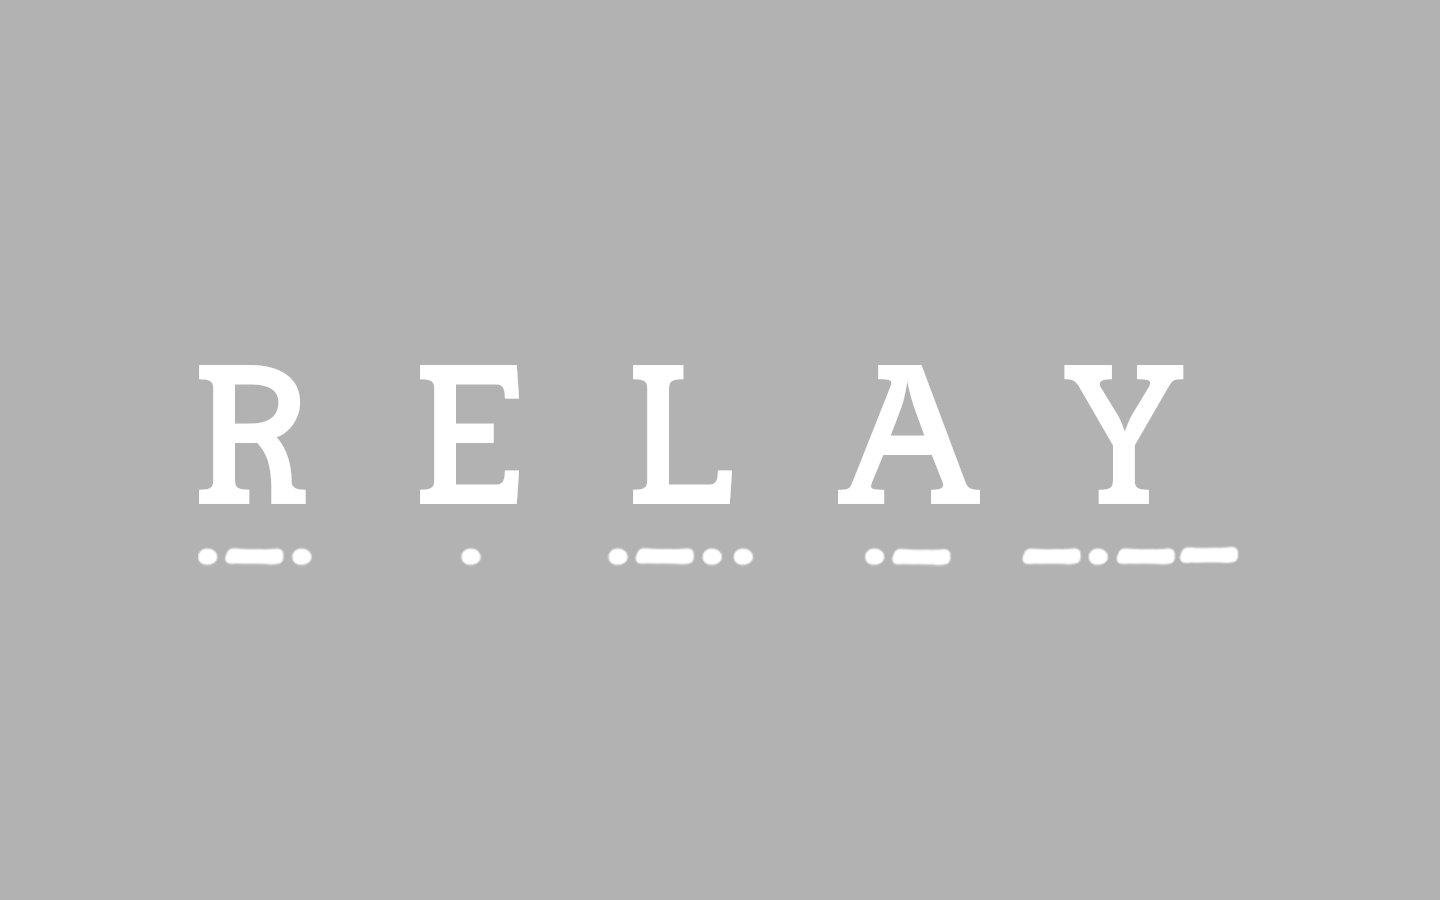
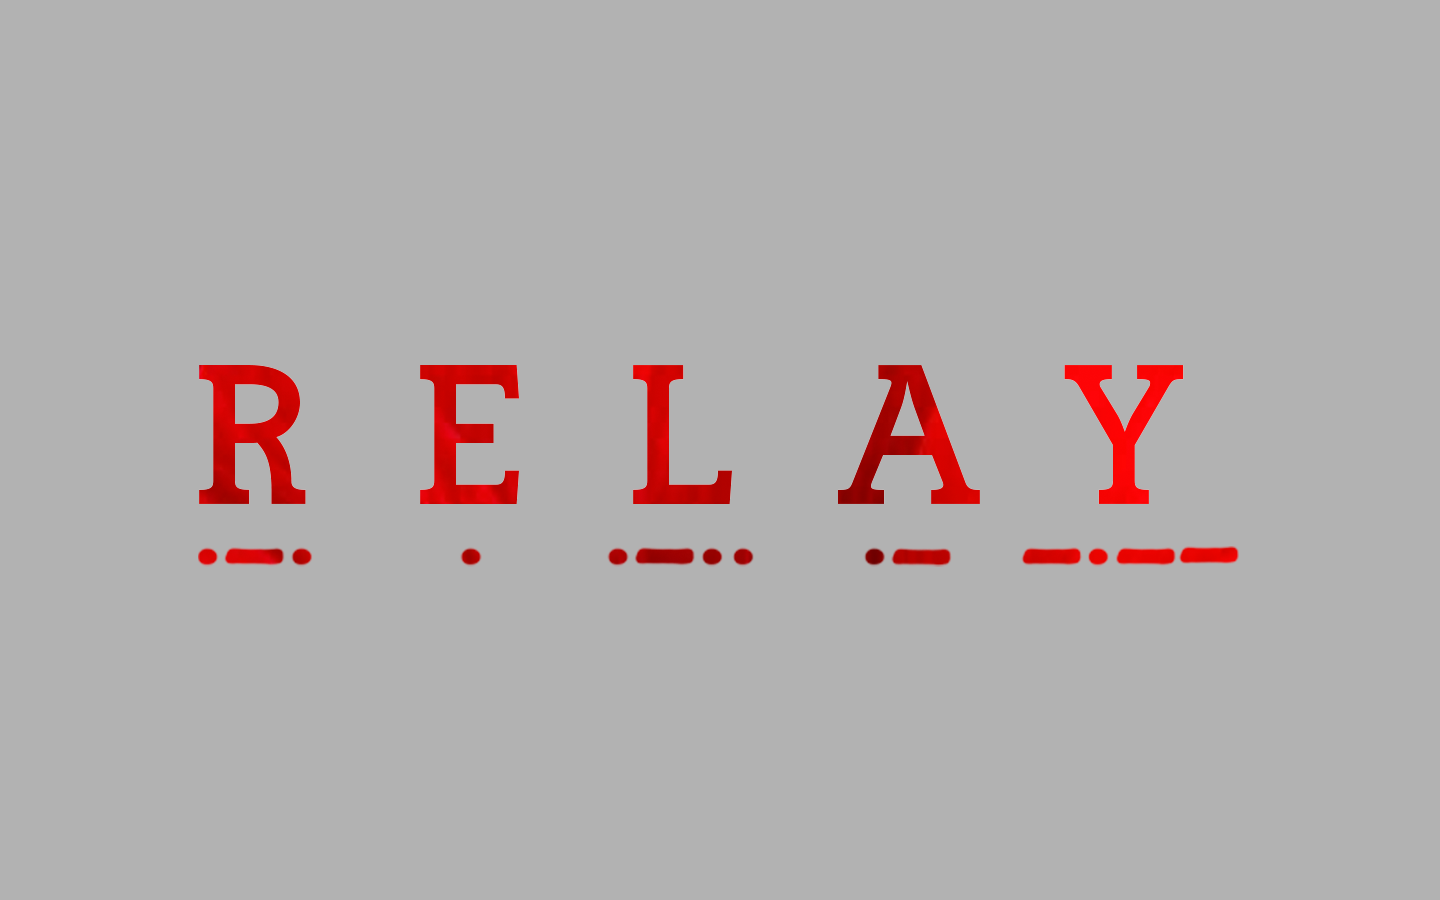
css

diff --git a/css/style.css b/css/style.css
@@ -7,19 +7,19 @@ body
 
 #bg
 {
-	background: url(/images/bg.jpg);
+	background: url(/images/poppy.jpg), url(/images/bg.jpg);
     background-position: center;
     background-size: cover;
+    background-blend-mode: multiply;
     width: 100%;
     height: 100%;
 }
 
 #title
 {
-	background: url(/images/poppy.jpg),url(/images/title.png);
+	background: url(/images/title.png);
     background-position: center;
     background-size: cover;
-    background-blend-mode: multiply;
     width: 100%;
     height: 100%;
 }
